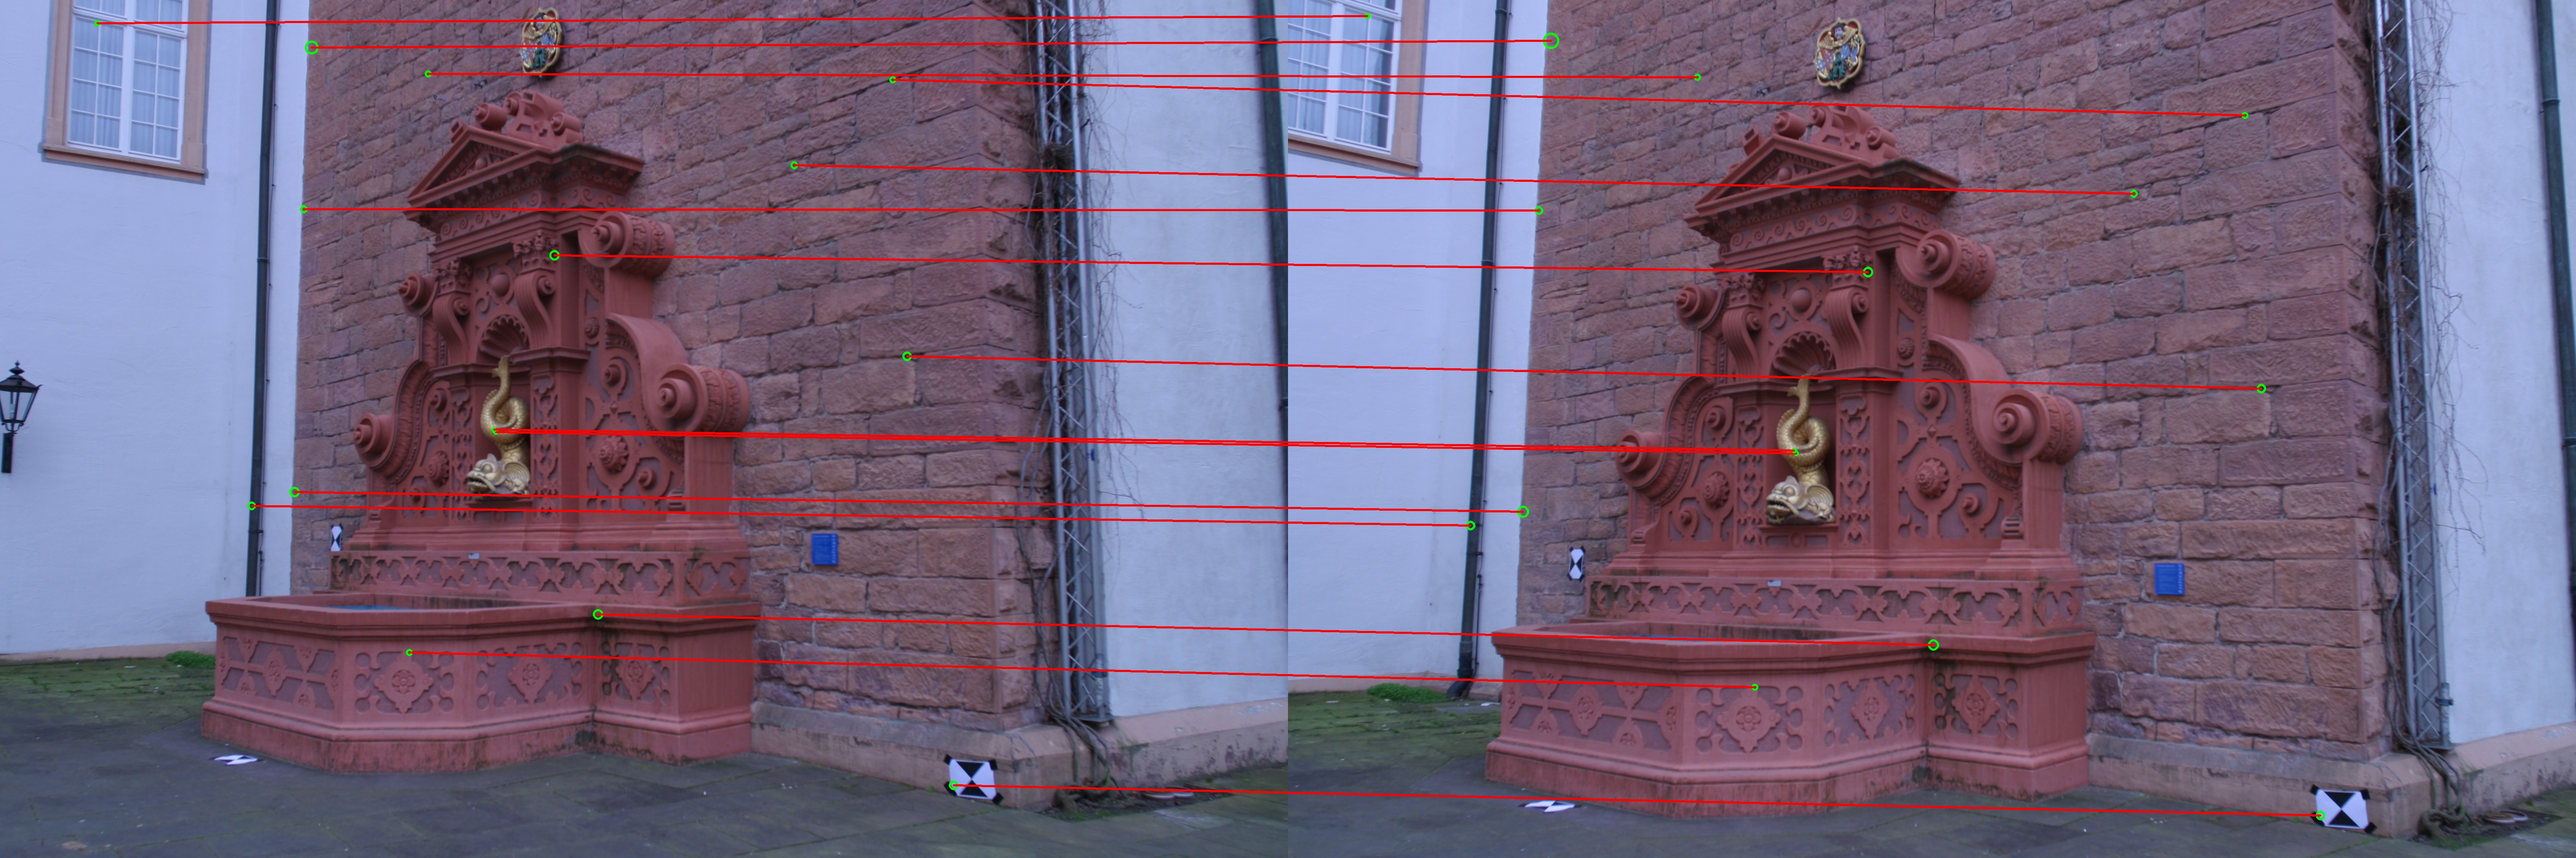
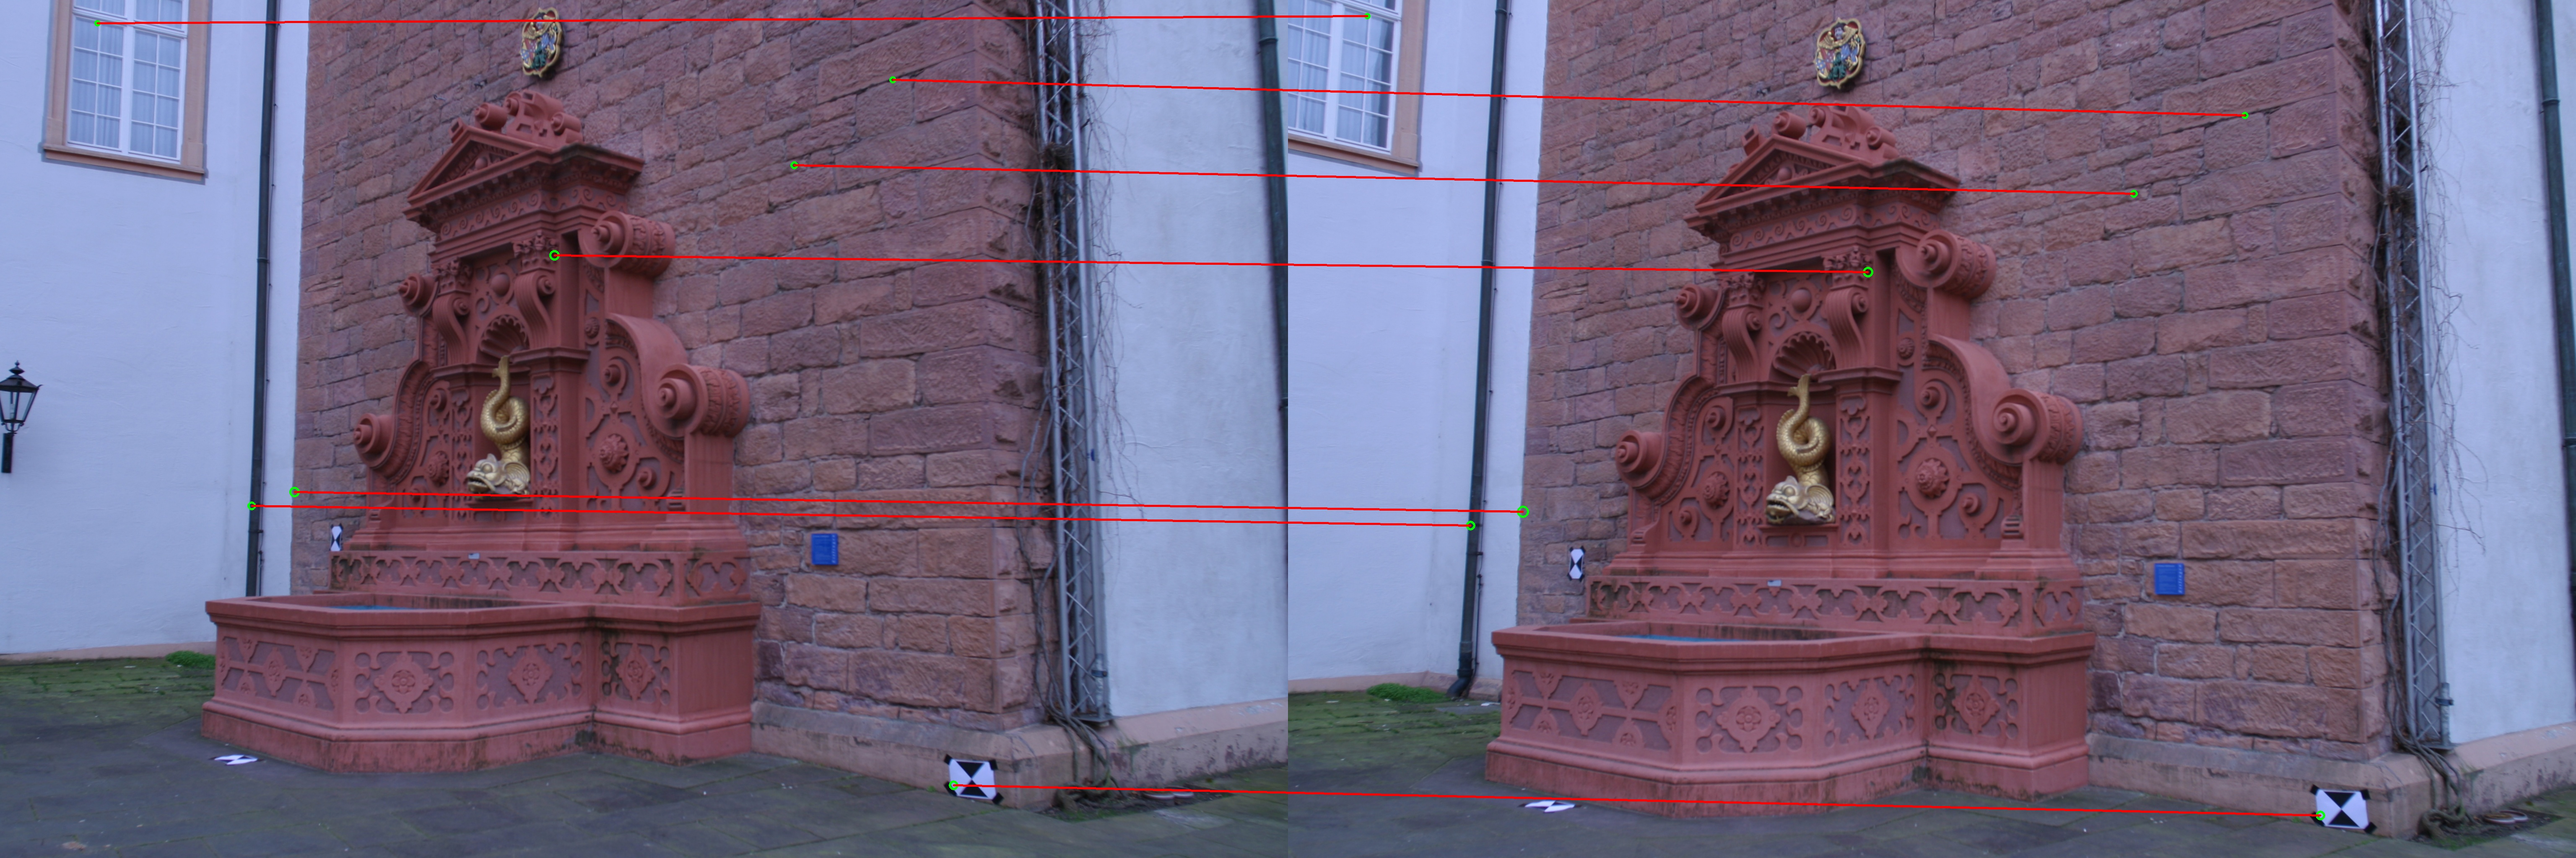
seven-point algorithm implemented

diff --git a/COMP5421-project/COMP5421-project/ThreeDimReconstruction.cpp b/COMP5421-project/COMP5421-project/ThreeDimReconstruction.cpp
@@ -289,11 +289,15 @@ vector<pair<SIFTFeature, SIFTFeature>> ThreeDimReconstruction::SIFTFeatureMatchi
 	return matchings;
 }
 
+
+
 // Output the fundamental matrix F
-Mat ThreeDimReconstruction::eightPointAlgorithm(const vector<pair<SIFTFeature, SIFTFeature>>& matchings, const int N) {
+// If N == 7, seven-point algorithm is used
+// If N >= 8, eight-point algorithm is used
+Mat ThreeDimReconstruction::computeFundamentalMatrix(const vector<pair<SIFTFeature, SIFTFeature>>& matchings, const int N) {
 	Mat fundamentalMatrix(3, 3, CV_64FC1);
 
-	if (N < 8 || matchings.size() < N) {
+	if (N < 7 || matchings.size() < N) {
 		throw Exception();
 	}
 
@@ -316,7 +320,7 @@ Mat ThreeDimReconstruction::eightPointAlgorithm(const vector<pair<SIFTFeature, S
 		}
 	}
 
-	cout << A << endl;
+	cout << "A:" << A << endl;
 
 	// Apply SVD: A = UDVt
 	Mat U, D, Vt;
@@ -325,56 +329,119 @@ Mat ThreeDimReconstruction::eightPointAlgorithm(const vector<pair<SIFTFeature, S
 	
 	// Get the column of the the smallest singular value of V, i.e. the row of least v of Vt
 	// In fact, it is the last row of Vt
+	cout << "U:" << endl << U << endl;
 	cout << "D:" << endl << D << endl;
 	cout << "Vt:" << endl << Vt << endl;
 
-	// F' = the last column (i.e., with least singular value) of V
-	Mat FpTmp = Vt.row(Vt.rows - 1).t();
-	// Remake Fp to be from 1 x 9 back to 3 x 3
-	Mat Fp(3, 3, CV_64FC1);
+	if (N == 7) {
+		// 7-point algorithm
+		// Get the TWO singular vectors fa, fb of the smallest singular value
+		Mat faTmp = Vt.row(Vt.rows - 1).t();
+		Mat fbTmp = Vt.row(Vt.rows - 2).t();
+		Mat fa(3, 3, CV_64FC1), fb(3, 3, CV_64FC1);;
 
-	for (int i = 0; i < 3; ++i) {
-		for (int j = 0; j < 3; ++j) {
-			Fp.at<double>(i, j) = FpTmp.at<double>(i * 3 + j, 0);
+		// Remake fa and fb from 1 x 9 back to 3 x 3
+		for (int i = 0; i < 3; ++i) {
+			for (int j = 0; j < 3; ++j) {
+				fa.at<double>(i, j) = faTmp.at<double>(i * 3 + j, 0);
+				fb.at<double>(i, j) = fbTmp.at<double>(i * 3 + j, 0);
+			}
 		}
+
+		// Consider the cubic equation ax^3 + bx^2t + cxt^2 + dt^3 = 0
+		// by det(x fa + t fb) = 0
+		double a = 0, b = 0, c = 0, d = 0;	// Coefficient of the cubic equation
+		// a: Determinant of all elements from fa
+		a = determinant(fa);	
+		// b: Determinant of TWO elements from fa + ONE element from fb
+		for (int i = 0; i < 3; ++i) {
+			Mat faTmp = fa.clone();
+
+			// Get one row from fb
+			for (int p = 0; p < 3; ++p) {
+				faTmp.at<double>(i, p) = fb.at<double>(i, p);
+			}
+
+			b += determinant(faTmp);
+		}
+
+		// c: Determinant of TWO elements from fb + ONE element from fa
+		for (int i = 0; i < 3; ++i) {
+			Mat fbTmp = fa.clone();
+			// Get one row from fb
+			for (int p = 0; p < 3; ++p) {
+				fbTmp.at<double>(i, p) = fa.at<double>(i, p);
+			}
+			c += determinant(fbTmp);
+		}
+
+		// Determinant of all elements from fb
+		d = determinant(fb);	
+
+		double coefficients[4] = { a, b, c, d };
+		double roots[3];
+		solveCubic(Mat(1, 4, CV_64F, coefficients), Mat(1, 3, CV_64F, roots));
+
+		// The root is x/t
+		cout << "fa: " << fa << endl;
+		cout << "fb: " << fb << endl;
+		cout << "roots: " << roots[0] << "\t" << roots[1] << "\t" << roots[2] << endl;
+		// F = x fa + t fb
+		// <=> F' = (x/t) fa + fb, to be normalized
+		fundamentalMatrix = fa.mul(roots[0]) + fb;
+
+	} else if (N >= 8) {
+		// 8-point algorithm
+		// F' = the last column (i.e., with least singular value) of V
+		Mat FpTmp = Vt.row(Vt.rows - 1).t();
+		// Remake Fp to be from 1 x 9 back to 3 x 3
+		Mat Fp(3, 3, CV_64FC1);
+
+		for (int i = 0; i < 3; ++i) {
+			for (int j = 0; j < 3; ++j) {
+				Fp.at<double>(i, j) = FpTmp.at<double>(i * 3 + j, 0);
+			}
+		}
+
+		cout << "Fp:" << endl << Fp << endl;
+
+		// Apply SVD again: Fp = UpDpVpt
+		Mat Up, Dp, Vpt;
+		SVD::compute(Fp, Dp, Up, Vpt, SVD::FULL_UV);
+
+		Mat DpTmp = Mat::zeros(3, 3, CV_64FC1);
+		DpTmp.at<double>(0, 0) = Dp.at<double>(0, 0);
+		DpTmp.at<double>(1, 1) = Dp.at<double>(1, 0);
+		// Set the value of the least singular value to be 0 (i.e., the last element)
+		//DpTmp.at<double>(2, 2) = Dp.at<double>(2, 0);
+
+		cout << "Up: " << Up << endl;
+		cout << "Dp: " << DpTmp << endl;
+		cout << "Vpt: " << Vpt << endl;
+
+		// F = U'D''V't
+		fundamentalMatrix = Up * DpTmp * Vpt;
+
+		
+		// Library TMP
+		vector<Point2f> points1(N);
+		vector<Point2f> points2(N);
+		for (int i = 0; i < N; ++i) {
+			points1[i] = matchings[i].first.keypoint.pt;
+			points2[i] = matchings[i].second.keypoint.pt;
+		}
+		Mat fundamentalMatrixTmp =
+			findFundamentalMat(points1, points2, FM_8POINT);
+		fundamentalMatrixTmp.convertTo(fundamentalMatrixTmp, CV_64FC1);
+
+		cout << "F" << fundamentalMatrix << endl;
+		cout << "Ftmp: " << fundamentalMatrixTmp << endl;
 	}
-
-	cout << "Fp:" << endl << Fp << endl;
-
-	// Apply SVD again: Fp = UpDpVpt
-	Mat Up, Dp, Vpt;
-	SVD::compute(Fp, Dp, Up, Vpt, SVD::FULL_UV);
-
-	Mat DpTmp = Mat::zeros(3, 3, CV_64FC1);
-	DpTmp.at<double>(0, 0) = Dp.at<double>(0, 0);
-	DpTmp.at<double>(1, 1) = Dp.at<double>(1, 0);
-	// Set the value of the least singular value to be 0 (i.e., the last element)
-	//DpTmp.at<double>(2, 2) = Dp.at<double>(2, 0);
-
-	cout << "Up: " << Up << endl;
-	cout << "Dp: " << DpTmp << endl;
-	cout << "Vpt: " << Vpt << endl;
-
-	// F = U'D''V't
-	fundamentalMatrix = Up * DpTmp * Vpt;
 
 	// Normalize F such that the last element must be 1
 	double normalizationFactor = 1.0f / fundamentalMatrix.at<double>(2, 2);
 	fundamentalMatrix.mul(normalizationFactor);
 
-	// Library TMP
-	vector<Point2f> points1(N);
-	vector<Point2f> points2(N);
-	for (int i = 0; i < N; ++i) {
-		points1[i] = matchings[i].first.keypoint.pt;
-		points2[i] = matchings[i].second.keypoint.pt;
-	}
-	Mat fundamentalMatrixTmp =
-		findFundamentalMat(points1, points2, FM_8POINT);
-	fundamentalMatrixTmp.convertTo(fundamentalMatrixTmp, CV_64FC1);
-
-	cout << "F" << fundamentalMatrix << endl;
-	cout << "Ftmp: " << fundamentalMatrixTmp << endl;
 	return fundamentalMatrix;
 }
 
@@ -399,7 +466,7 @@ void ThreeDimReconstruction::process(void) {
 		cout << matchings.size() << " features matched!" << endl;
 
 		
-		matchings.resize(15);	// Top-15 matches
+		matchings.resize(7);	// Top-15 matches
 
 		for (auto& matching : matchings) {
 			//printf("%f\n", sqrt(euclideanDistanceSquared(matching.first.descriptor, matching.second.descriptor)));
@@ -411,7 +478,7 @@ void ThreeDimReconstruction::process(void) {
 		
 		
 		// 8-point algorithm
-		Mat fundamentalMatrix = eightPointAlgorithm(matchings, 15);
+		Mat fundamentalMatrix = computeFundamentalMatrix(matchings, 7);
 		cout << "F: " << fundamentalMatrix << endl;
 		
 		// Check top 10 results
@@ -429,7 +496,9 @@ void ThreeDimReconstruction::process(void) {
 		}
 		
 
-		visualizeMatchingWithEpipolarLines(this->images[0], this->images[1], matchings, fundamentalMatrix).show(0.9);
+		Img visualizeMatchingWithEpipolarLinesImg = visualizeMatchingWithEpipolarLines(this->images[0], this->images[1], matchings, fundamentalMatrix);
+		visualizeMatchingWithEpipolarLinesImg.show(0.9);
+		imwrite(IMAGE_WRITE_FOLDER + visualizeMatchingWithEpipolarLinesImg.name + ".jpg", visualizeMatchingWithEpipolarLinesImg.mat);
 
 	}
 

diff --git a/COMP5421-project/COMP5421-project/ThreeDimReconstruction.h b/COMP5421-project/COMP5421-project/ThreeDimReconstruction.h
@@ -51,7 +51,7 @@ public:
 	Img visualizeMatchings(const Img& img1, const Img& img2, const vector<pair<SIFTFeature, SIFTFeature>>& matchings);
 	Img visualizeMatchingWithEpipolarLines(const Img& img1, const Img& img2, const vector<pair<SIFTFeature, SIFTFeature>>& matchings, const Mat& F);
 	vector<pair<SIFTFeature, SIFTFeature>> SIFTFeatureMatching(const Img& img1, const vector<SIFTFeature> features1, const Img& img2, const vector<SIFTFeature> features2);
-	Mat eightPointAlgorithm(const vector<pair<SIFTFeature, SIFTFeature>>& matchings, const int N = 8);
+	Mat computeFundamentalMatrix(const vector<pair<SIFTFeature, SIFTFeature>>& matchings, const int N = 8);
 	void process(void);
 	void wait(void) const;
 	
